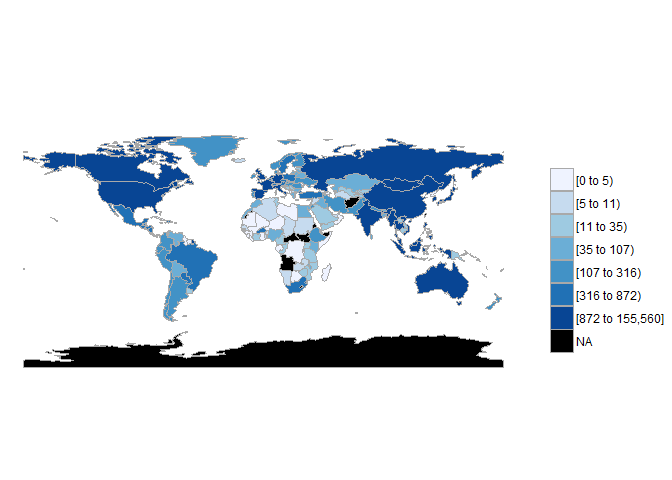
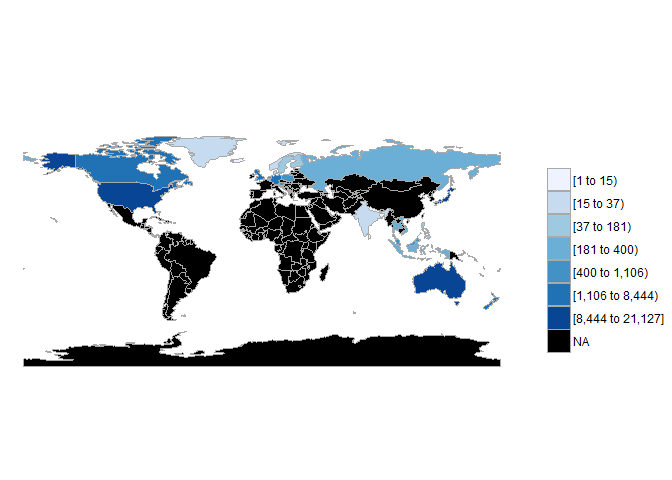
Done

diff --git a/InternationalStudents.md b/InternationalStudents.md
@@ -479,40 +479,10 @@ colnames(countryname)<-c("ISO3","English","國別")
 Ecometw<-merge(cometw,countryname,by="國別")
 colnames(Ecometw)<-c("國名","洲別","value","ISO3","region")
 ans8<-country_choropleth(Ecometw)
-```
-
-    ## Warning in super$initialize(country.map, user.df): Your data.frame contains
-    ## the following regions which are not mappable: Singapore
-
-    ## Warning in self$bind(): The following regions were missing and are being
-    ## set to NA: afghanistan, angola, azerbaijan, moldova, madagascar, mexico,
-    ## macedonia, mali, myanmar, montenegro, mongolia, mozambique, mauritania,
-    ## burundi, malawi, namibia, france, niger, nigeria, nicaragua, oman,
-    ## pakistan, panama, peru, papua new guinea, north korea, benin, portugal,
-    ## paraguay, israel, qatar, romania, rwanda, western sahara, saudi arabia,
-    ## sudan, burkina faso, south sudan, senegal, solomon islands, sierra leone,
-    ## el salvador, somaliland, somalia, republic of serbia, suriname, slovakia,
-    ## slovenia, swaziland, syria, chad, togo, tajikistan, turkmenistan, east
-    ## timor, bulgaria, trinidad and tobago, tunisia, turkey, taiwan, united
-    ## republic of tanzania, uganda, ukraine, uruguay, uzbekistan, the bahamas,
-    ## venezuela, vanuatu, yemen, south africa, zambia, zimbabwe, bosnia and
-    ## herzegovina, belarus, albania, belize, bolivia, brazil, bhutan, botswana,
-    ## central african republic, switzerland, chile, united arab emirates, china,
-    ## ivory coast, cameroon, democratic republic of the congo, republic of
-    ## congo, colombia, costa rica, cuba, northern cyprus, cyprus, argentina,
-    ## czech republic, djibouti, dominican republic, algeria, ecuador, egypt,
-    ## eritrea, spain, armenia, estonia, ethiopia, fiji, gabon, georgia, ghana,
-    ## antarctica, guinea, gambia, guinea bissau, equatorial guinea, greece,
-    ## guatemala, guyana, honduras, croatia, haiti, hungary, ireland, iran, iraq,
-    ## italy, jamaica, jordan, kazakhstan, kenya, kyrgyzstan, cambodia, south
-    ## korea, kosovo, kuwait, laos, lebanon, liberia, libya, lesotho, lithuania,
-    ## luxembourg, latvia, morocco
-
-``` r
 ans8
 ```
 
-![](InternationalStudents_files/figure-markdown_github/FromTWNAbMap-1.png)
+![](InternationalStudents_files/figure-markdown_github/unnamed-chunk-3-1.png)
 
 綜合分析
 --------
@@ -521,7 +491,7 @@ ans8
 
 9-1:
 
-![](InternationalStudents_files/figure-markdown_github/unnamed-chunk-3-1.png)![](InternationalStudents_files/figure-markdown_github/unnamed-chunk-3-2.png)
+![](InternationalStudents_files/figure-markdown_github/unnamed-chunk-4-1.png)![](InternationalStudents_files/figure-markdown_github/unnamed-chunk-4-2.png)
 
 從這兩個面量圖切入的話，來到台灣讀書的來源國是以亞洲的北亞、東北亞及東南亞、美洲的北美、大洋洲上的澳洲及歐洲為主，而在南亞、中南美和非洲也有一些，其中中南美洲來的學生比非洲來的還多一點；離台讀書的留學生的留學國則是以亞洲的東北亞、美洲的北美以及歐洲為主，跟來台灣讀書的學生的來源國來比對的話，發現北亞、東南亞、南美洲離台的留學生都不怎麼愛去，尤其是非洲以及中亞，這兩個地區，根本沒有人去
 
